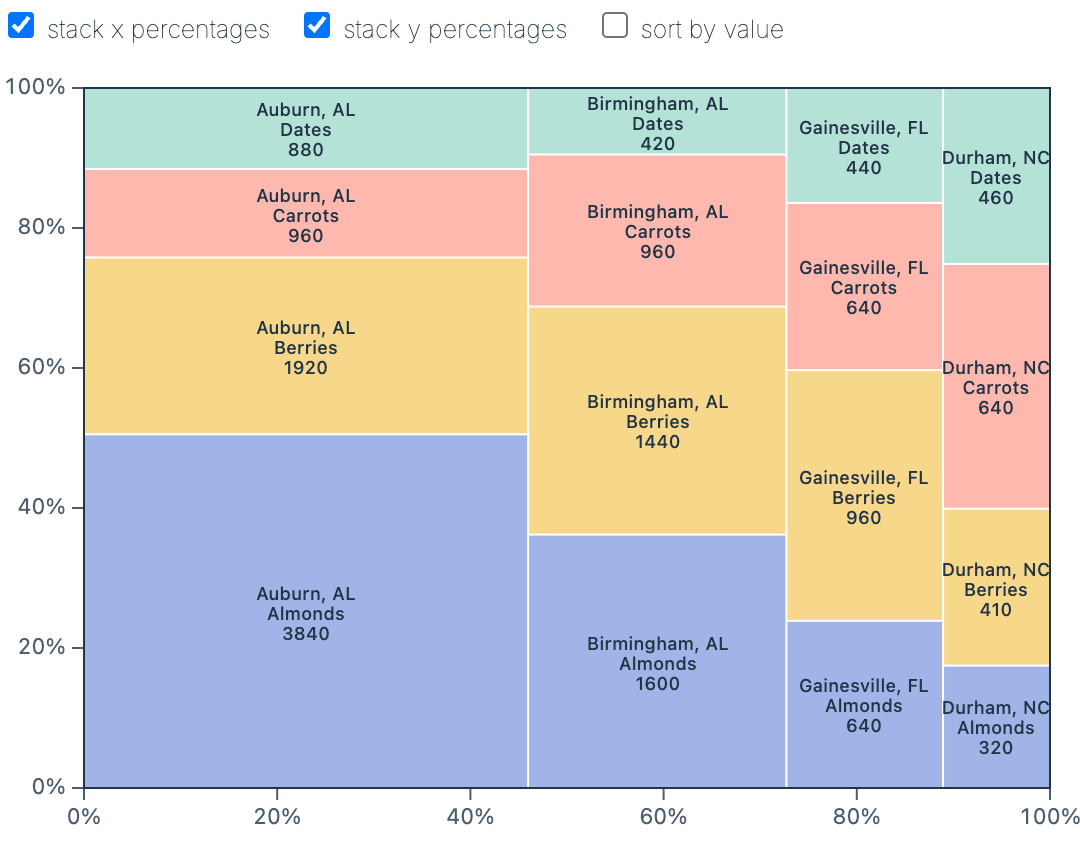
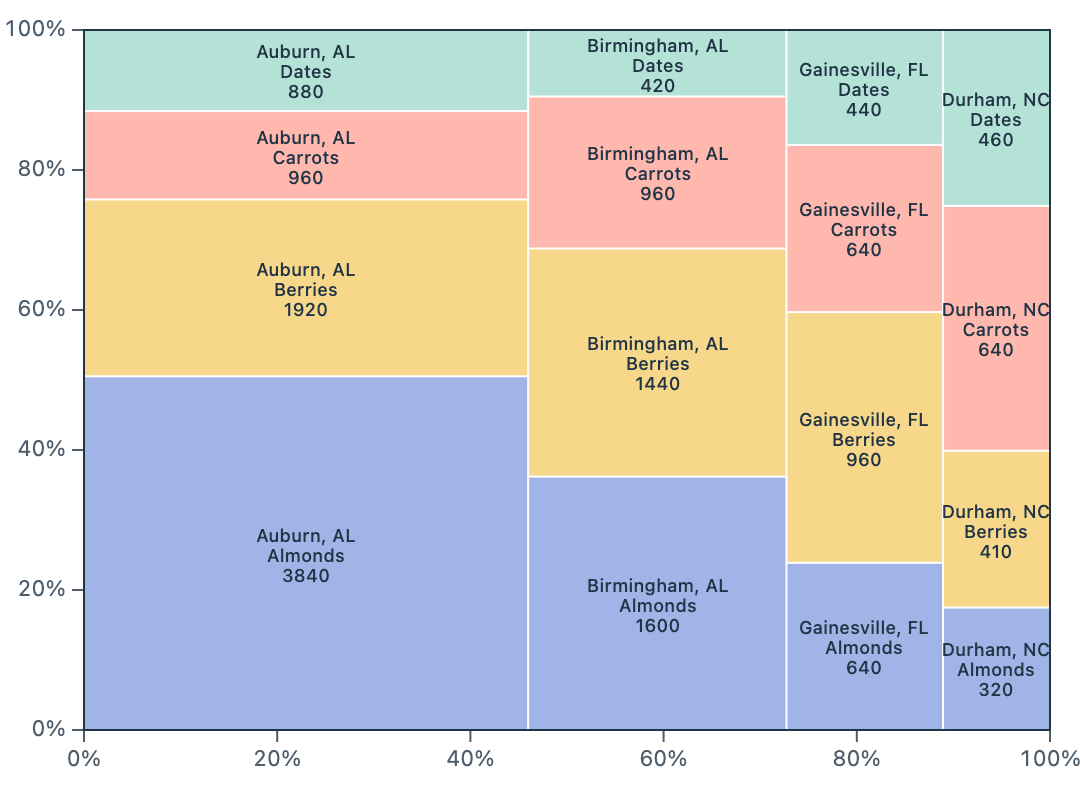
simplify demo

diff --git a/src/routes/examples/rect/marimekko.svelte b/src/routes/examples/rect/marimekko.svelte
@@ -12,7 +12,6 @@
         Text,
         stackMosaicX
     } from 'svelteplot';
-    import { Checkbox } from '$lib/ui';
     import { page } from '$app/state';
     import type { ExamplesData } from '../types';
 
@@ -20,39 +19,26 @@
         page.data.data
     ) as ExamplesData;
 
-    let xPercent = $state(true);
-    let yPercent = $state(true);
-    let sortValue = $state(false);
-
     const stacked = $derived(
         stackMosaicX(
             {
                 data: sales,
                 x: 'market',
                 y: 'segment',
-                value: 'value',
-                ...(sortValue ? { sort: 'value' } : {})
+                value: 'value'
             },
             {
-                x: { percent: xPercent },
-                y: { percent: yPercent }
+                x: { percent: true },
+                y: { percent: true }
             }
         )
     );
 </script>
 
-<Checkbox
-    bind:value={xPercent}
-    label="stack x percentages" />
-<Checkbox
-    bind:value={yPercent}
-    label="stack y percentages" />
-<Checkbox bind:value={sortValue} label="sort by value" />
-
 <Plot
     frame
-    x={{ percent: xPercent }}
-    y={{ percent: yPercent }}
+    x={{ percent: true }}
+    y={{ percent: true }}
     marginTop={15}
     marginRight={15}>
     <Rect
